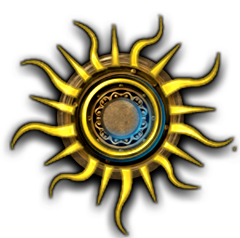
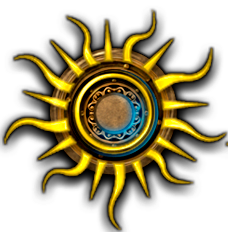
test1

diff --git a/js/index.js b/js/index.js
@@ -21,12 +21,12 @@ class Game {
     var parts = [
       {
         name: "castle",
-        background: "images/castle.png",
+        background: "images/castle.jpg",
         text: "Добро пожаловать в стариный замок! В подземелье спрятана книга знаний, которая откроет тебе новый, удивительный мир. Но на пути тебя ждут испытания!"
       },
       {
         name: "room",
-        background: "images/room.png",
+        background: "images/room.jpg",
         text: `В поисках книги тебе понадобится мечь, эликсир, ключ. Найди их!!!`,
         items: [
           {
@@ -180,7 +180,7 @@ class Game {
       },
       {
         name: "safe",
-        background: "images/safe.png",
+        background: "images/safe.jpg",
         text: "Ты почти у цели, что бы открыть дверь нужно отгадать загадку!",
         res: function (){
                  if (event.target.onmousedown()){
@@ -195,7 +195,7 @@ class Game {
       },
       {
         name: "room-chest",
-        background: "images/room-chest.png",
+        background: "images/room-chest.jpg",
         text: "Ура ты нашел сундук! У тебя есть ключ, открой его!",
         res2: function (){
                  if (event.target.onmousedown()){
@@ -215,7 +215,7 @@ class Game {
       },
       {
         name: "book",
-        background: "images/book.png",
+        background: "images/book.jpg",
       },
     ]
     // имя текущей части игры

diff --git a/css/main.css b/css/main.css
@@ -12,10 +12,7 @@ body {
 }
 .mainGround {
   position: absolute;
-  background-image: url("../images/castle.png");
-  transition: all 0.8s;
-  /* width: 1400px;
-  height: 720px; */
+  background-image: url("../images/castle.jpg");
   display: flex;
   align-items: center;
   justify-content: center;
@@ -136,7 +133,7 @@ rec-form {
   z-index: 2;
 }
 .text, .question {
-  background-image: url("../images/board.png");
+  background-image: url("../images/board.jpg");
   width: 400px;
   height: 300px;
   background-repeat: no-repeat;
@@ -172,11 +169,17 @@ rec-form {
   justify-content: center;
 }
 .answBtn {
-
+  padding-bottom: 10px;
+  padding-top: 10px;
+  cursor: pointer;
 }
 .answText {
-
+  margin: 0;
+  padding-top: 10px;
+  padding-left: 5px;
 }
 pre {
   width: 350px;
+  margin: 0;
+  padding-left: 5px;
 }

diff --git a/js/question.js b/js/question.js
@@ -31,7 +31,7 @@ while ( i <span contenteditable="true">???</span> 10 ){
                     tagName: "div",
                     answers:["0", "<", "++"],
                     attrs: {
-                            innerText: "Answer",
+                            innerText: "Ответить",
                             className: "answBtn"
                      }
                  }
